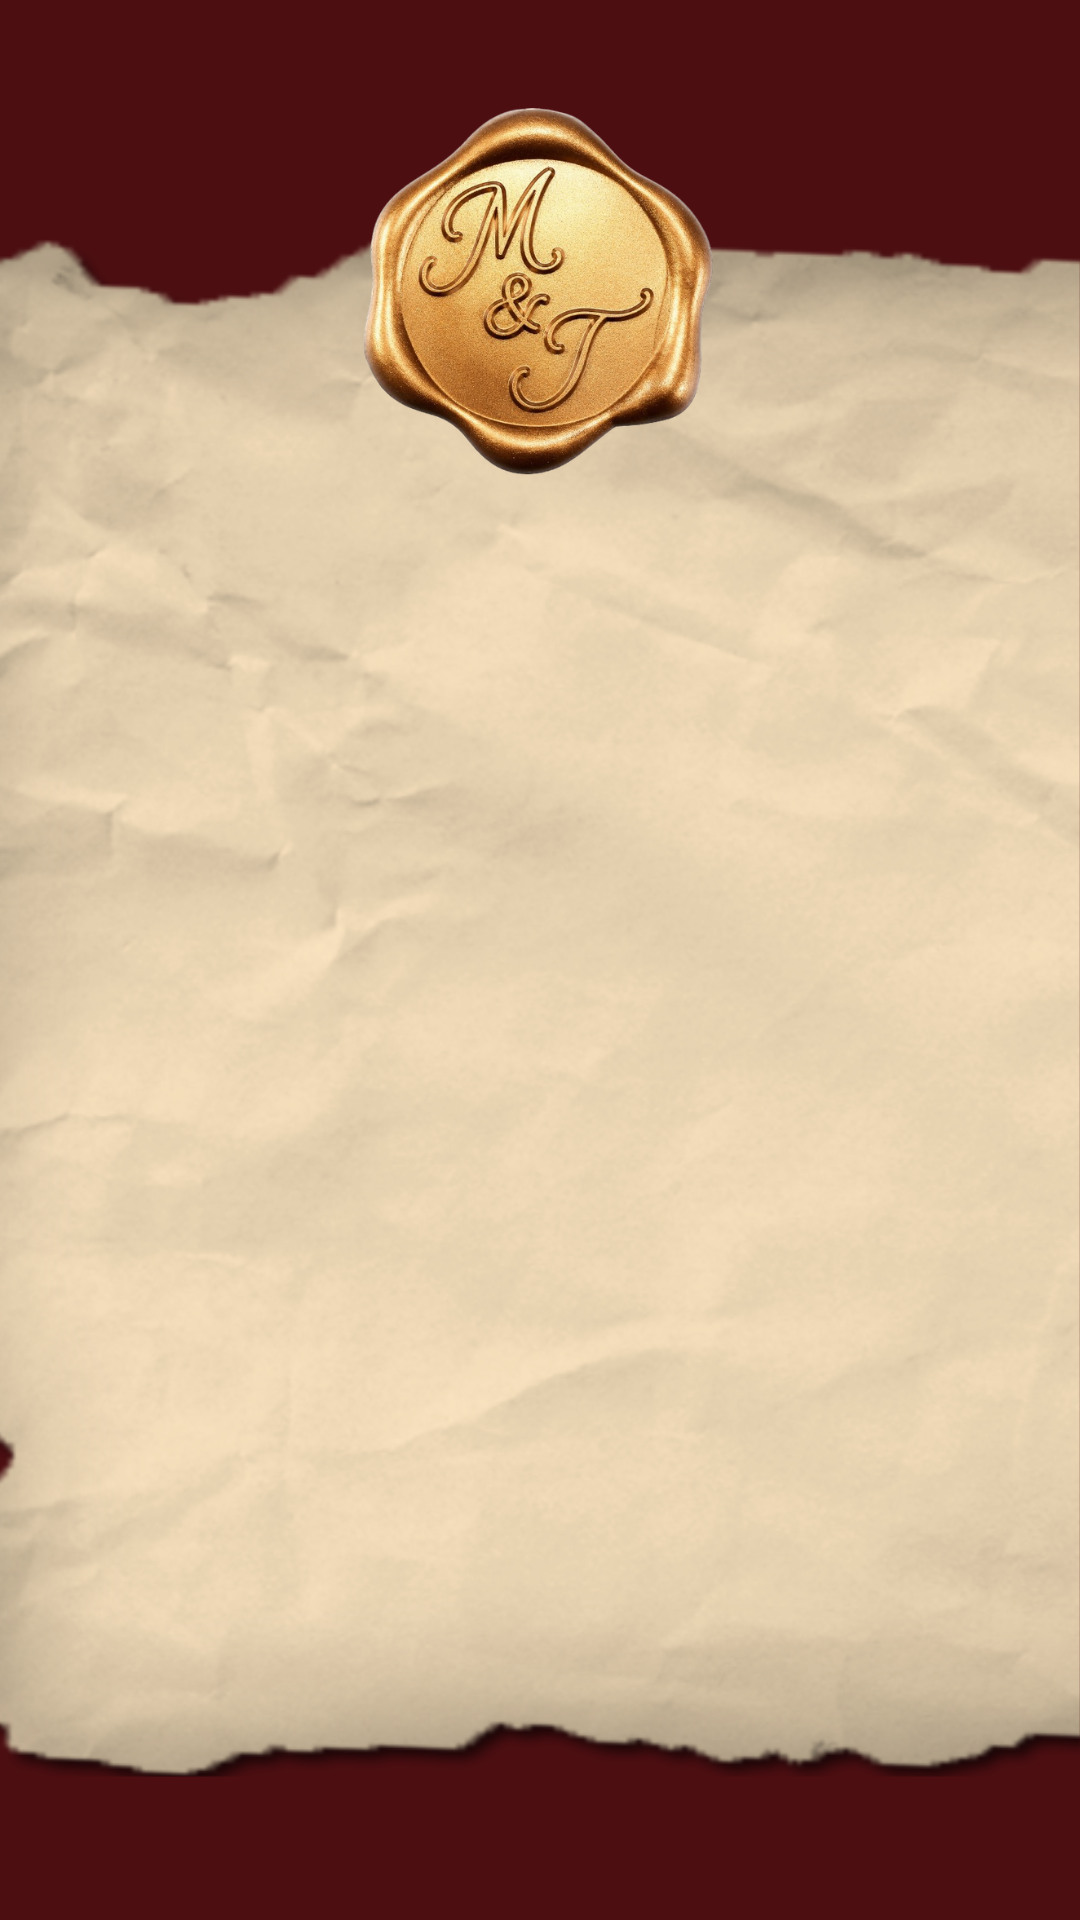
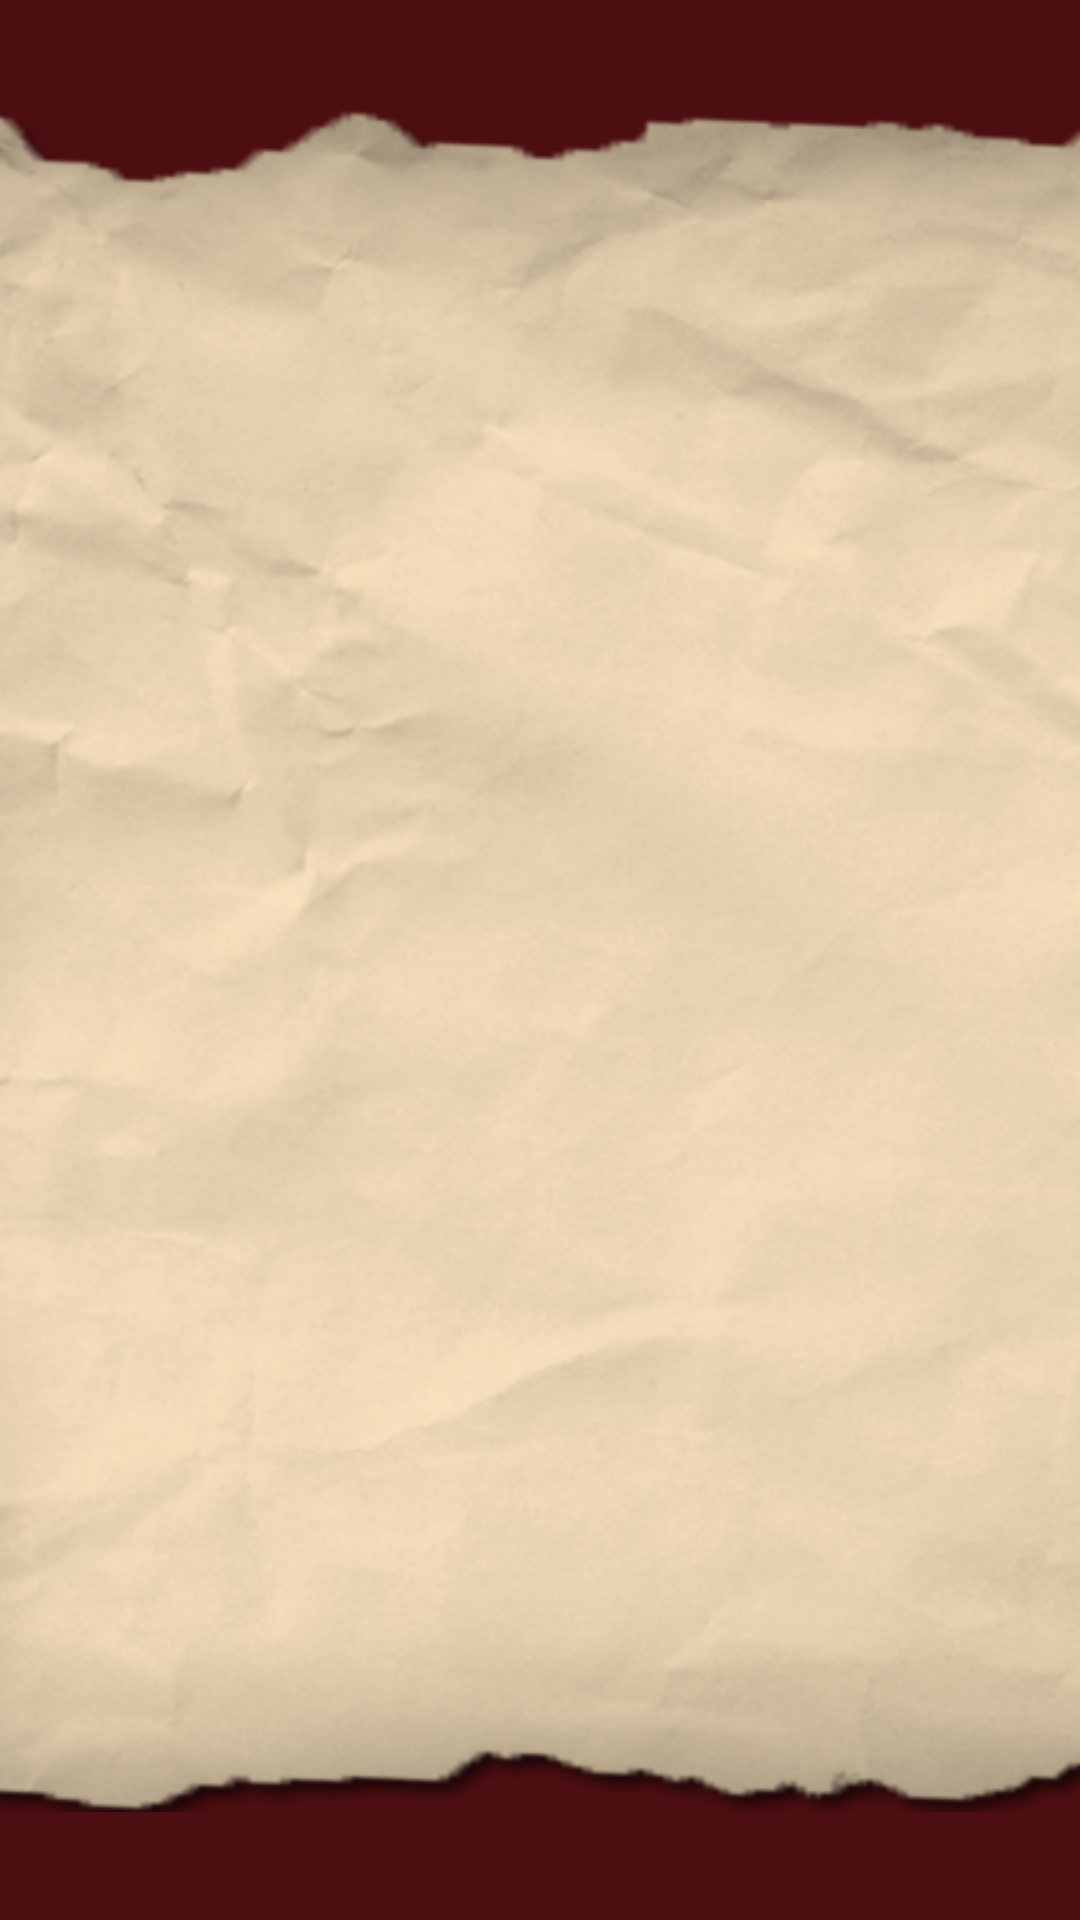
Update homepage

diff --git a/app/content/page.tsx b/app/content/page.tsx
@@ -290,121 +290,7 @@ function GuestBook() {
 }
 
 
-/* ------------------------------------------------------------------ */
-/*  PetalGame                                                          */
-/* ------------------------------------------------------------------ */
-function PetalGame() {
-  const wrapRef = useRef<HTMLDivElement>(null);
-  const [hintVisible, setHintVisible] = useState(true);
 
-  const flowers = ['🌸','💗', '🌼','💕' ,'🏵️', '💛'];
-
-  function spawnPetals() {
-    const wrap = wrapRef.current;
-    if (!wrap) return;
-    setHintVisible(false);
-
-    const count = 30 + Math.floor(Math.random() * 20);
-    for (let i = 0; i < count; i++) {
-      setTimeout(() => {
-        const p = document.createElement('div');
-        const size = 20 + Math.random() * 20;
-        const startX = Math.random() * 100;
-        const flower = flowers[Math.floor(Math.random() * flowers.length)];
-        const duration = 2.5 + Math.random() * 2;
-        const swayX = (Math.random() - 0.5) * 200;
-        p.style.cssText = `
-          position:absolute;
-          left:${startX}%;
-          top:-30px;
-          font-size:${size}px;
-          line-height:1;
-          pointer-events:none;
-          z-index:10;
-          opacity:0.95;
-          animation: petalRain ${duration}s ease-in forwards;
-          --sway: ${swayX}px;
-          user-select:none;
-        `;
-        p.textContent = flower;
-        wrap.appendChild(p);
-        setTimeout(() => p.remove(), duration * 1000 + 100);
-      }, i * 40);
-    }
-  }
-
-  function handleClick() { spawnPetals(); }
-
-  function handleTouch(e: React.TouchEvent<HTMLDivElement>) {
-    e.preventDefault();
-    spawnPetals();
-  }
-
-  return (
-    <>
-      <style jsx>{`
-        @keyframes petalRain {
-          0% {
-            transform: translateY(0) translateX(0) rotate(0deg);
-            opacity: 0.95;
-          }
-          50% {
-            transform: translateY(240px) translateX(calc(var(--sway) * 0.5)) rotate(180deg);
-            opacity: 0.85;
-          }
-          100% {
-            transform: translateY(560px) translateX(var(--sway)) rotate(360deg);
-            opacity: 0;
-          }
-        }
-      `}</style>
-
-      <div
-        ref={wrapRef}
-        onClick={handleClick}
-        onTouchStart={handleTouch}
-        style={{
-          position: 'relative',
-          width: '100%',
-          height: '520px',
-          overflow: 'hidden',
-          cursor: 'pointer',
-          userSelect: 'none',
-          background: 'transparent',
-        }}
-      >
-        <Image
-          src="/media/bandg.webp"
-          alt="Mohamed and Tibyan"
-          fill
-          style={{
-            objectFit: 'contain',
-            objectPosition: 'center bottom',
-            zIndex: 2,
-          }}
-        />
-
-         
-          <p style={{
-            position: 'absolute',
-            top: '16px',
-            left: 0, right: 0,
-            textAlign: 'center',
-            fontFamily: 'Georgia, serif',
-            fontStyle: 'italic',
-            fontSize: '15px',
-            color: 'rgba(255,207,107,0.85)',
-            margin: 0,
-            zIndex: 10,
-            pointerEvents: 'none',
-          }}>
-            🌼🌼🌼🌼
-          </p>
-        
-      </div>
-    </>
-  );
-}
 
 /* ------------------------------------------------------------------ */
 /*  Page                                                               */
@@ -505,26 +391,13 @@ export default function ContentPage() {
                 fontFamily: "Georgia, 'Times New Roman', serif",
                 fontStyle: 'italic',
                 fontWeight: 500,
-                fontSize: 'clamp(25px, 4vw, 32px)',
+                fontSize: 'clamp(22px, 4vw, 32px)',
                 color: '#ffffff',
                 margin: '0 0 4px',
                 lineHeight: 1.25,
               }}
             >
-              Mohamed Abdelrahman
-            </h1>
-            <h1
-              style={{
-                fontFamily: "Georgia, 'Times New Roman', serif",
-                fontStyle: 'italic',
-                fontWeight: 500,
-                fontSize: 'clamp(25px, 4vw, 32px)',
-                color: '#ffffff',
-                margin: '0 0 8px',
-                lineHeight: 1.25,
-              }}
-            >
-              Mohammed Hassanein
+              Mohamed Abdelrahman Mohamed 
             </h1>
 
             {/* Ampersand */}
@@ -546,7 +419,7 @@ export default function ContentPage() {
                 fontFamily: "Georgia, 'Times New Roman', serif",
                 fontStyle: 'italic',
                 fontWeight: 500,
-                fontSize: 'clamp(25px, 4vw, 32px)',
+                fontSize: 'clamp(22px, 4vw, 32px)',
                 color: '#ffffff',
                 margin: '0 0 clamp(16px, 4%, 28px)',
                 lineHeight: 1.25,
@@ -874,23 +747,6 @@ export default function ContentPage() {
 
 
 
-{/* ============================================================ */}
-{/*  PETAL GAME                                                   */}
-{/* ============================================================ */}
-<section id="game" style={{
-  background: 'radial-gradient(ellipse at 50% 0%, #883f48 0%, #4d0e12 72%)',
-  padding: 'clamp(64px, 12vh, 120px) clamp(20px, 6vw, 48px)',
-  display: 'flex',
-  flexDirection: 'column',
-  alignItems: 'center',
-}}>
-  <Reveal as="h2" delay={80} className="section-title section-title-light">
-    Shower them with love
-  </Reveal>
-  <Reveal delay={140} style={{ width: '100%', maxWidth: '420px' }}>
-    <PetalGame />
-  </Reveal>
-</section>
 
 
 